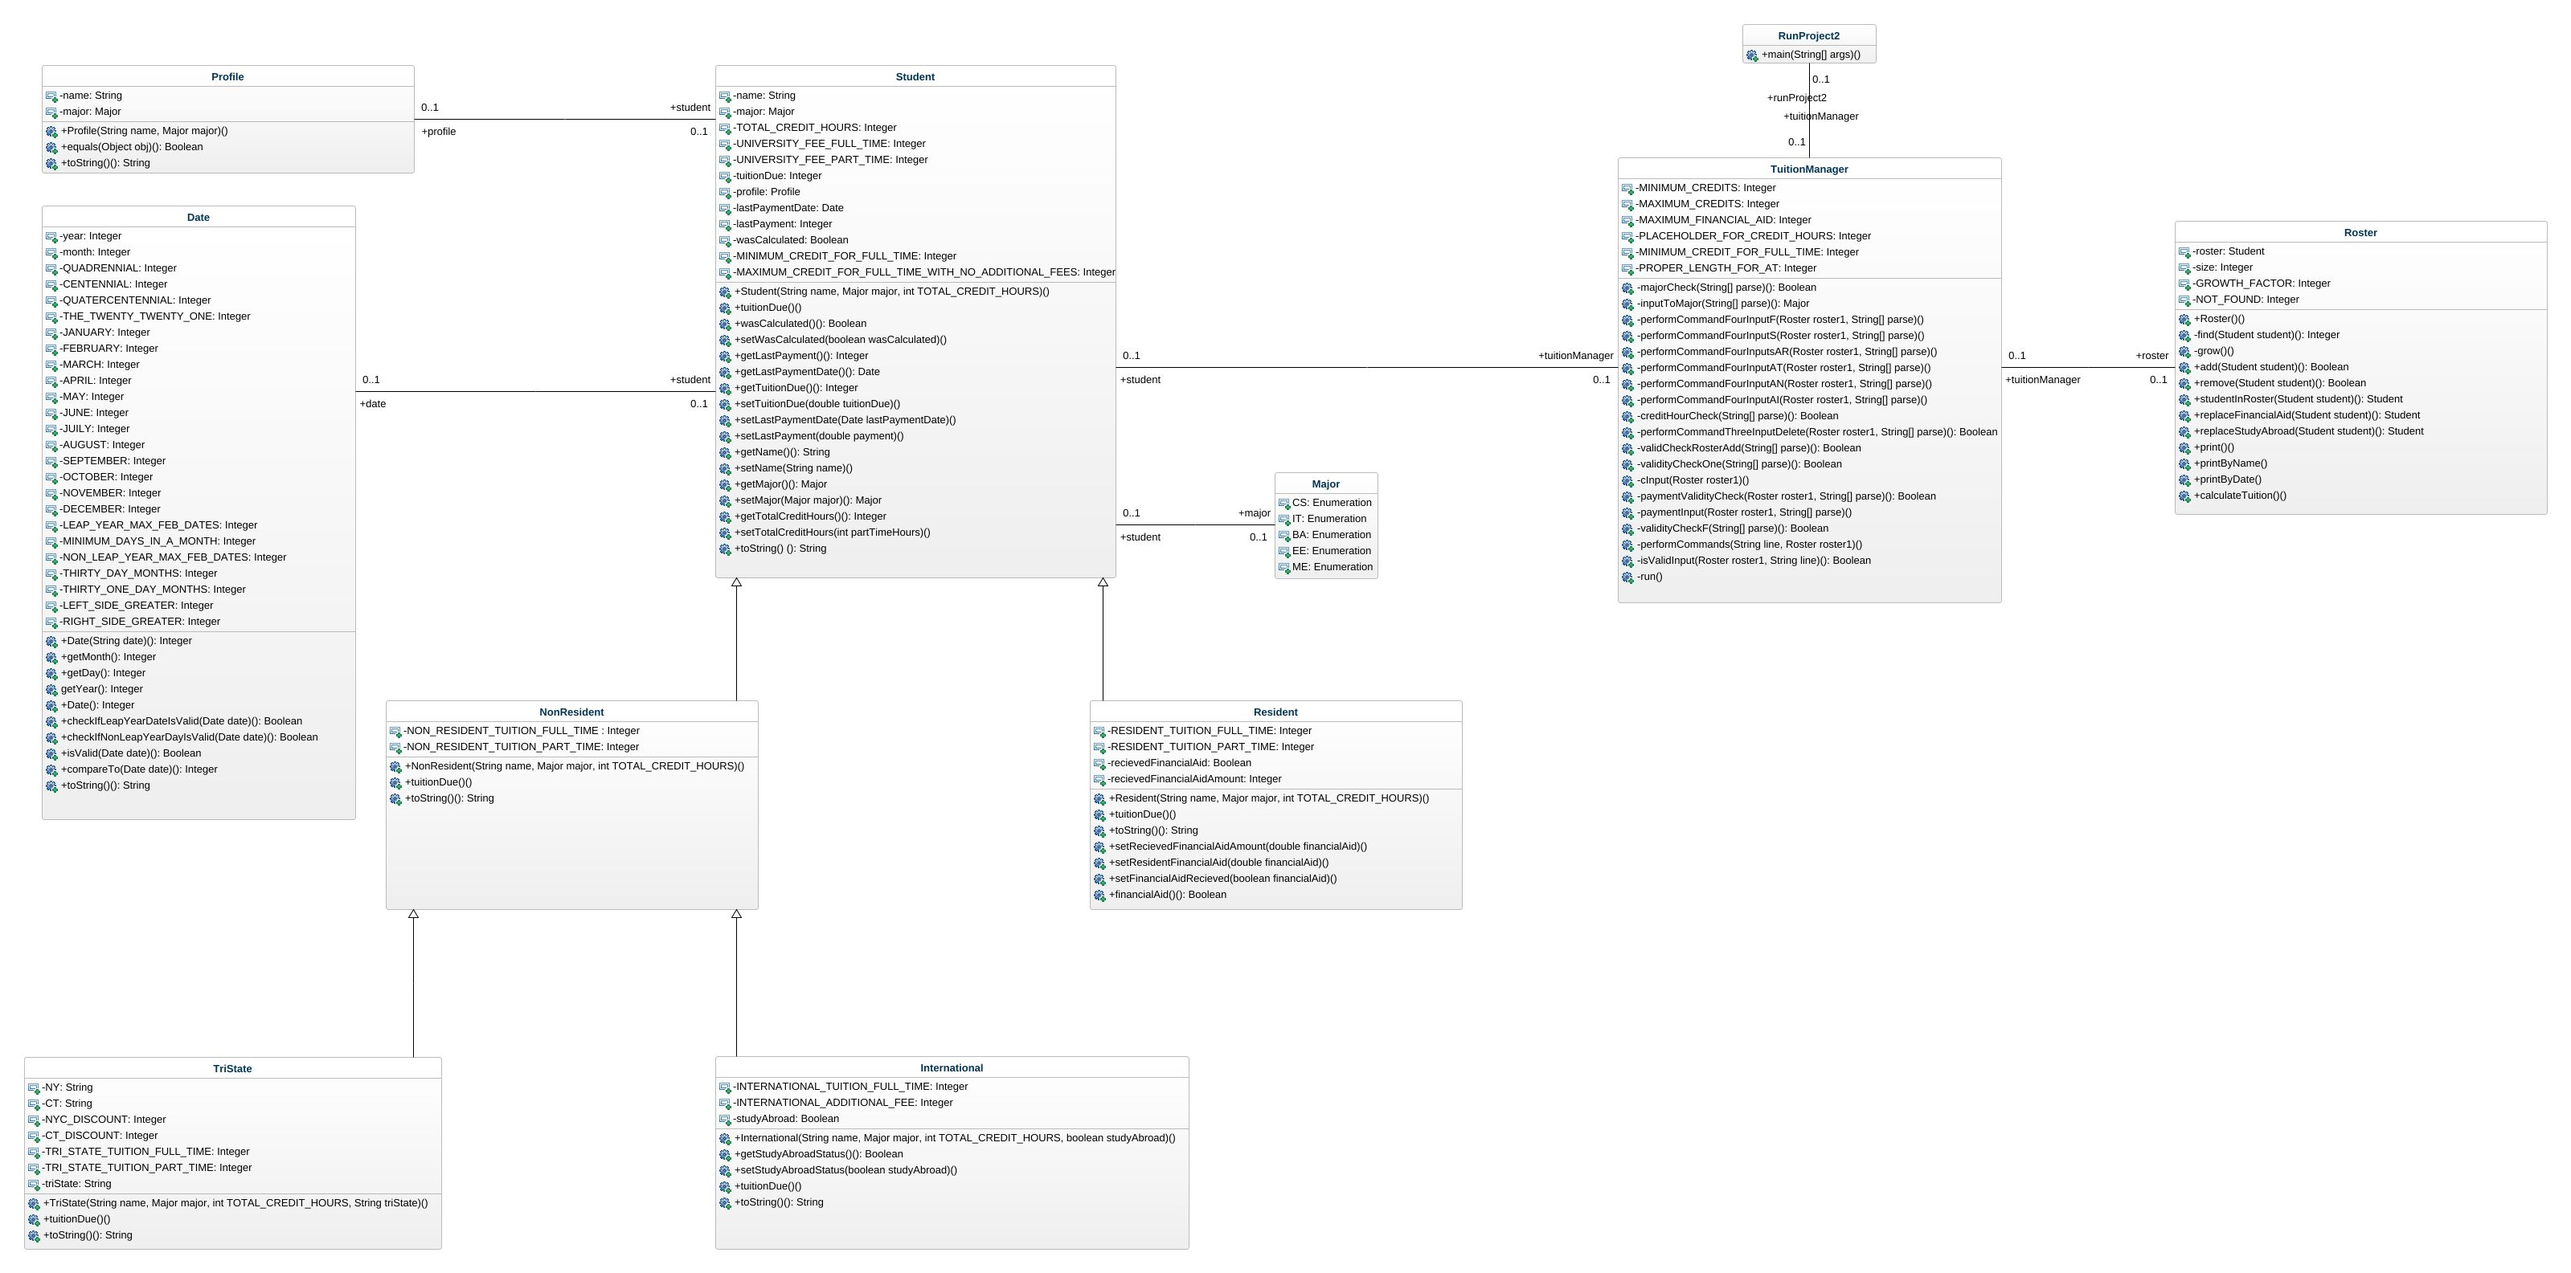
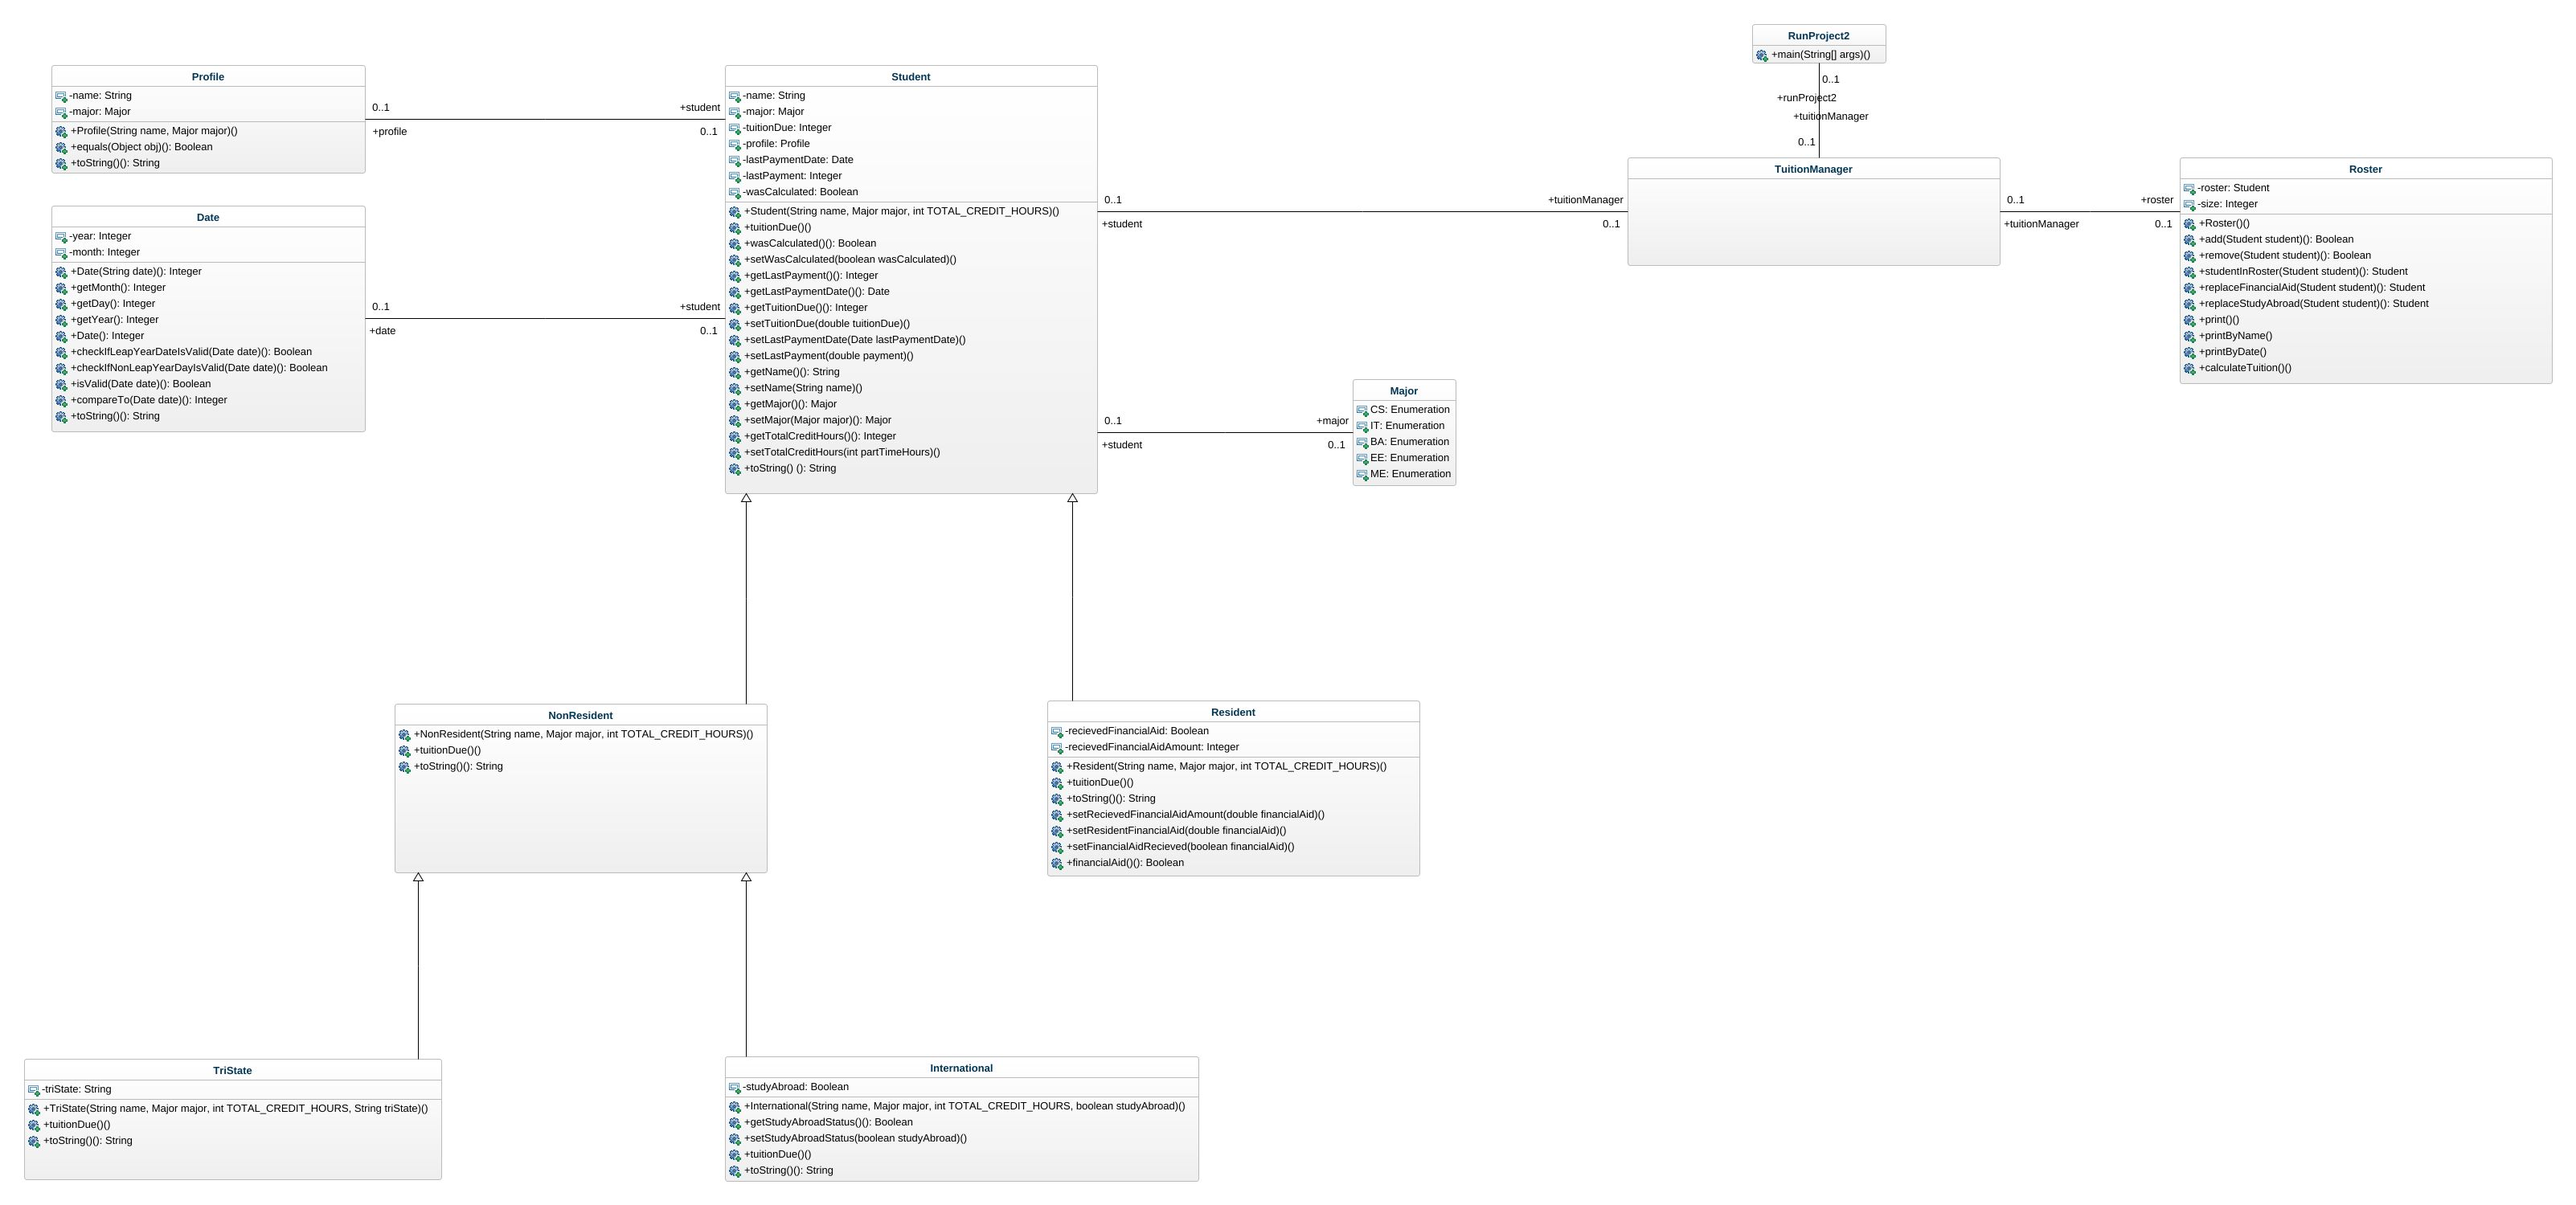
Fixed Diagram/Finished JUnit Testing

diff --git a/src/unitTesting/RosterTest.java b/src/unitTesting/RosterTest.java
@@ -1,6 +1,8 @@
 package unitTesting;
 
 import project.two.Roster;
+import project.two.Student;
+import project.two.Major;
 import org.junit.Test;
 
 import static org.junit.Assert.*;
@@ -9,9 +11,55 @@ public class RosterTest {
 
     @Test
     public void add() {
+    	// Test to add 1 student
+    	Student student = new Student("Person one", Major.CS, 12);
+    	Roster roster = new Roster();
+    	assertTrue(roster.add(student));
+    	
+    	// Test to ensure that roster's capacity is growing and results in true for adding the 5th student
+    	student = new Student("Person two", Major.IT, 15);
+    	roster.add(student);
+    	student = new Student("Person three", Major.EE, 16);
+    	roster.add(student);
+    	student = new Student("Person four", Major.ME, 18);
+    	student = new Student("Person five", Major.CS, 9);
+    	roster.add(student);
+    	student = new Student("Person six", Major.BA, 7);
+    	assertTrue(roster.add(student));
+    	
+    	// Test to make sure it does not add duplicate students
+    	student = new Student("Person two", Major.IT, 15);
+    	assertFalse(roster.add(student));
+  
     }
 
     @Test
     public void remove() {
+     	Student studentOne = new Student("Person one", Major.CS, 12);
+    	Roster roster = new Roster();
+    	roster.add(studentOne);
+    	Student studentTwo = new Student("Person two", Major.IT, 15);
+    	roster.add(studentTwo);
+    	Student studentThree = new Student("Person three", Major.EE, 16);
+    	roster.add(studentThree);
+    	Student studentFour = new Student("Person four", Major.ME, 18);
+    	roster.add(studentFour);
+    	Student studentFive = new Student("Person five", Major.CS, 9);
+    	roster.add(studentFive);
+    	Student studentSix = new Student("Person six", Major.BA, 7);
+    	roster.add(studentSix);
+    	
+    	// Test to remove a student
+    	assertTrue(roster.remove(studentOne));
+    	
+    	// Test to remove an already removed student
+    	assertFalse(roster.remove(studentOne));
+    	
+    	// Test to remove a student not within the same roster
+    	Roster rosterTwo = new Roster();
+    	Student studentSeven = new Student("Person seven", Major.EE, 12);
+    	rosterTwo.add(studentSeven);
+    	assertFalse(roster.remove(studentSeven));
+    	
     }
 }

diff --git a/src/unitTesting/InternationalTest.java b/src/unitTesting/InternationalTest.java
@@ -1,5 +1,5 @@
 package unitTesting;
-
+import project.two.Major;
 import org.junit.Test;
 import project.two.International;
 
@@ -7,7 +7,32 @@ import static org.junit.Assert.*;
 
 public class InternationalTest {
 
-    @Test
+	@Test
     public void tuitionDue() {
+    	// Testing for International student with 12 credits and is studying abroad
+    	International international = new International("Person One", Major.CS, 12, true);
+    	international.tuitionDue();
+        assertEquals(international.getTuitionDue(), 5918.0, 0);
+        
+    	// Testing for International student with 12 credits and not studying abroad
+        international = new International("Person Two", Major.IT, 12, false);
+    	international.tuitionDue();
+        assertEquals(international.getTuitionDue(), 35655.0, 0);
+        
+    	// Testing for International student with over 12 credits and not studying abroad
+        international = new International("Person Three", Major.ME, 24, false);
+    	international.tuitionDue();
+        assertEquals(international.getTuitionDue(), 43383.0, 0);
+        
+    	// Testing for International student with over 12 credits and is studying abroad
+        international = new International("Person Four", Major.EE, 24, true);
+    	international.tuitionDue();
+        assertEquals(international.getTuitionDue(), 5918.0, 0);
+        
+        // Testing for International student with invalid credits
+        international = new International("Person Five", Major.CS, 11, true);
+    	international.tuitionDue();
+        assertEquals(international.getTuitionDue(), 0.0, 0);
+
     }
 }

diff --git a/src/unitTesting/DateTest.java b/src/unitTesting/DateTest.java
@@ -1,7 +1,6 @@
 package unitTesting;
 
 import project.two.Date;
-
 import static org.junit.Assert.*;
 
 public class DateTest {
